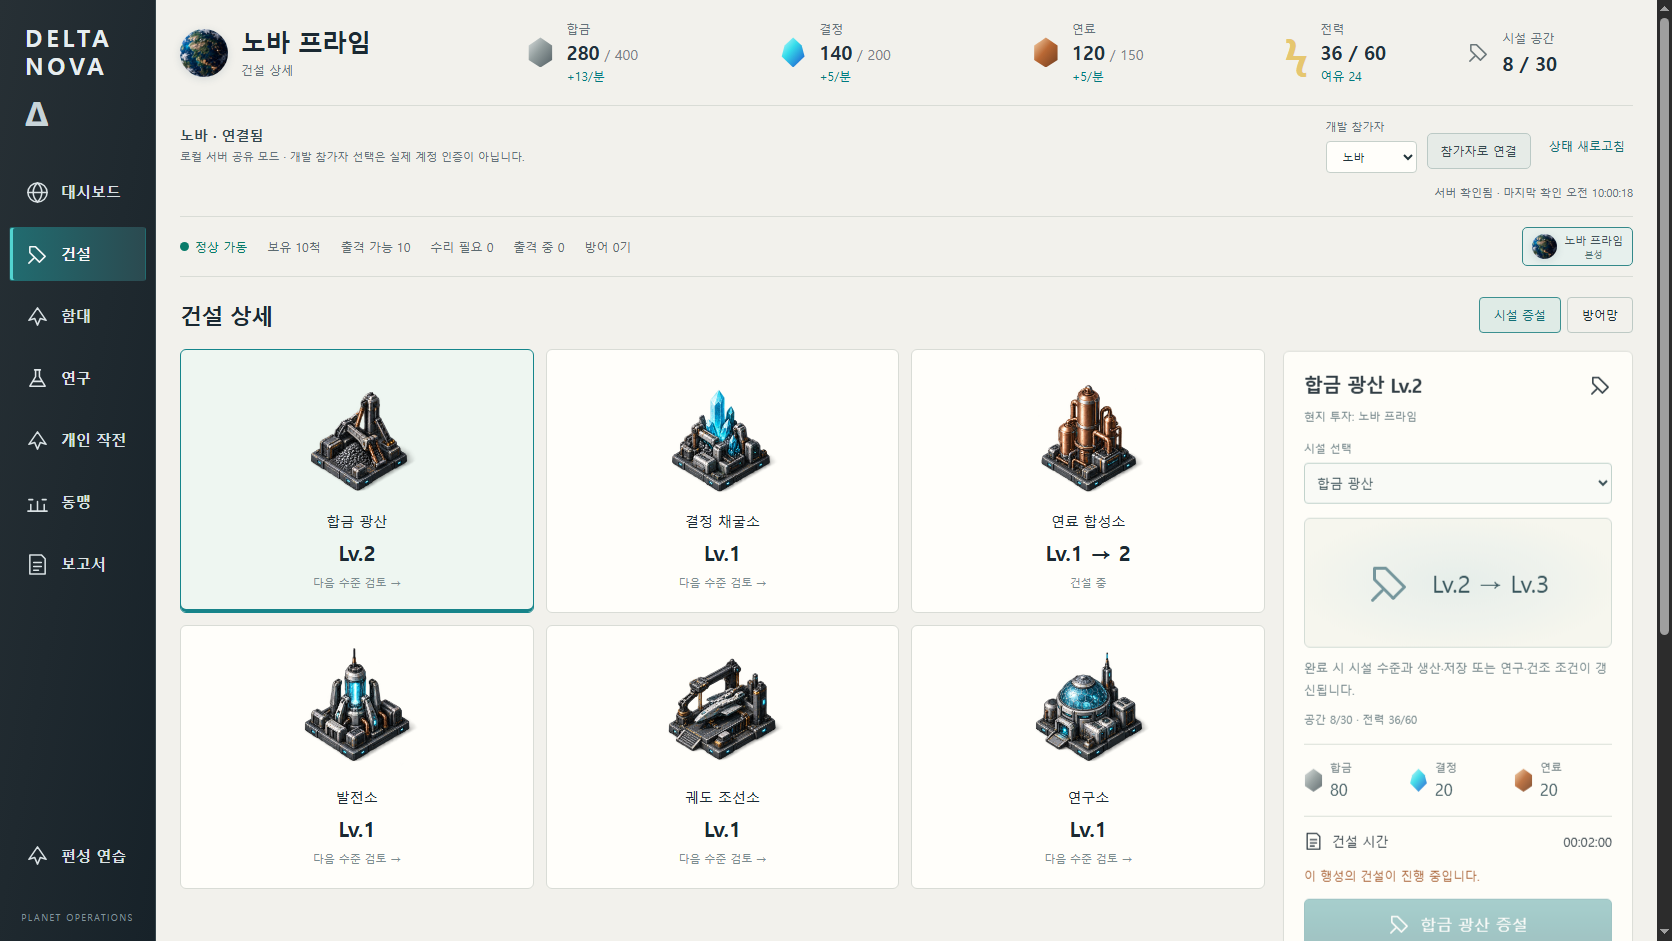
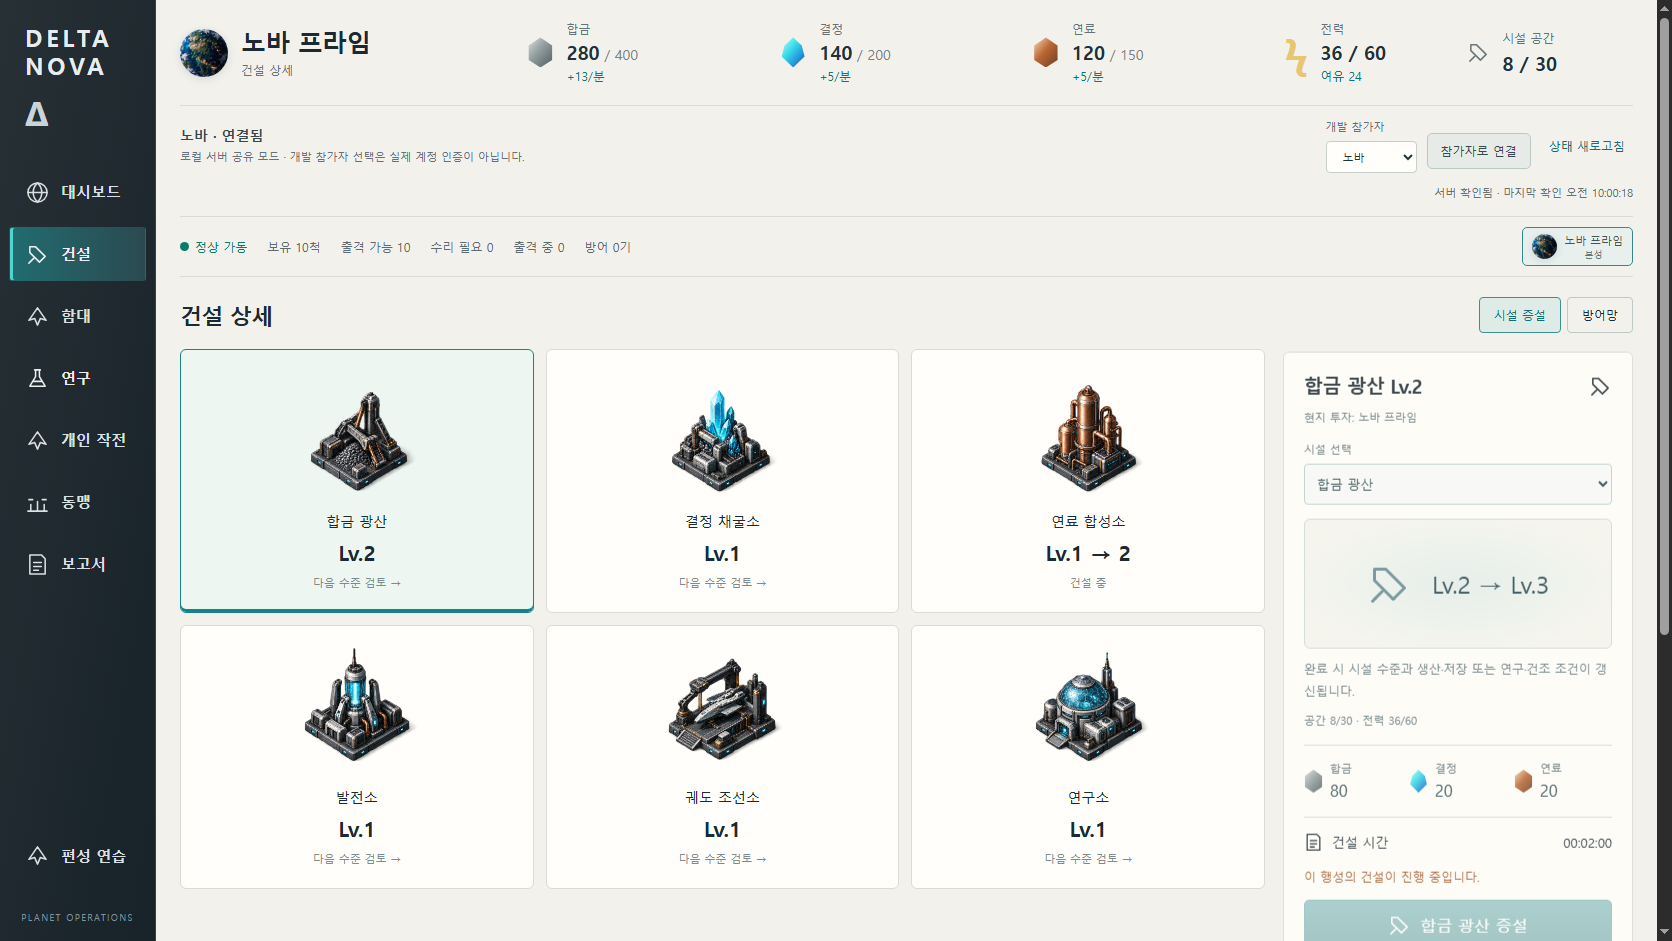
fix: scope completion notices to the active participant and API

diff --git a/tests/completion-notice.test.tsx b/tests/completion-notice.test.tsx
@@ -1,0 +1,40 @@
+// @vitest-environment jsdom
+import { useLayoutEffect } from "react";
+import { afterEach, expect, it } from "vitest";
+import { cleanup, render, screen } from "@testing-library/react";
+import { empireApi } from "../src/empire/api.ts";
+import type { EmpireApi } from "../src/empire/api.ts";
+import type { EmpireState } from "../src/empire/types.ts";
+import { initialEmpire } from "../src/empire/rules.ts";
+import { useCompletionNotice } from "../src/empire/useCompletionNotice.ts";
+afterEach(cleanup);
+it("does not replay an old completion when returning to an already observed API",()=>{
+  const api1={...empireApi},api2={...empireApi},initial=initialEmpire("nova",0),observe=()=>{};
+  const view=render(<Notice api={api2} state={initial} observe={observe}/>);
+  view.rerender(<Notice api={api1} state={initial} observe={observe}/>);
+  const completed={...initial,events:[{id:"completed-on-one",at:40000,planetId:"nova-prime",kind:"completed" as const,title:"함선 건조 1척 완료"}]};
+  view.rerender(<Notice api={api1} state={completed} observe={observe}/>);
+  expect(screen.getByRole("status").textContent).toContain("함선 건조");
+  view.rerender(<Notice api={api2} state={initial} observe={observe}/>);
+  expect(screen.getByRole("status").textContent).toBe("");
+  view.rerender(<Notice api={api1} state={completed} observe={observe}/>);
+  expect(screen.getByRole("status").textContent).toBe("");
+});
+function Notice({api,state,observe}:{api:EmpireApi;state:EmpireState;observe:(text:string)=>void}) {
+  const notice=useCompletionNotice(api,state);
+  useLayoutEffect(()=>{observe(notice?.text||"");});
+  return <p role="status">{notice?.text}</p>;
+}
+it.each(["participant","API"] as const)("never renders the previous completion on the first %s change render",kind=>{
+  const api={...empireApi},initial=initialEmpire("nova",0),observed:string[]=[];
+  const observe=(text:string)=>observed.push(text);
+  const view=render(<Notice api={api} state={initial} observe={observe}/>);
+  const completed={...initial,events:[{id:"new-ship",at:40000,planetId:"nova-prime",kind:"completed" as const,title:"함선 건조 1척 완료"}]};
+  view.rerender(<Notice api={api} state={completed} observe={observe}/>);
+  expect(screen.getByRole("status").textContent).toContain("함선 건조 1척 완료");
+  observed.length=0;
+  const next=initialEmpire(kind==="participant"?"other":"nova",40000);
+  view.rerender(<Notice api={kind==="API"?{...empireApi}:api} state={next} observe={observe}/>);
+  expect(observed.length).toBeGreaterThan(0);
+  expect(observed.every(text=>text==="")).toBe(true);
+});

diff --git a/src/empire/useCompletionNotice.ts b/src/empire/useCompletionNotice.ts
@@ -3,12 +3,13 @@ import type { EmpireApi } from "./api.ts";
 import type { EmpireState } from "./types.ts";
 
 interface CompletionNotice { key: string; text: string }
+interface ObservedNotice { api: EmpireApi; owner: string; notice: CompletionNotice }
 // Retain observations across menu navigation, bounded by the server's event list.
 const histories = new WeakMap<EmpireApi, Map<string, Set<string>>>();
 
 export function useCompletionNotice(api: EmpireApi, state: EmpireState | undefined) {
-  const [notice, setNotice] = useState<CompletionNotice | null>(null);
-  const owner = useRef<string | null>(null);
+  const [notice, setNotice] = useState<ObservedNotice | null>(null);
+  const owner = useRef<{api: EmpireApi; id: string} | null>(null);
 
   useEffect(() => {
     if (!state) {
@@ -20,17 +21,20 @@ export function useCompletionNotice(api: EmpireApi, state: EmpireState | undefin
     if (!actors) { actors = new Map(); histories.set(api, actors); }
     const previous = actors.get(state.homePlanetId);
     actors.set(state.homePlanetId, new Set(state.events.map(event => event.id)));
-    if (owner.current !== state.homePlanetId || !previous) setNotice(null);
-    owner.current = state.homePlanetId;
+    if (owner.current?.api !== api || owner.current.id !== state.homePlanetId || !previous) setNotice(null);
+    owner.current = {api, id: state.homePlanetId};
     if (!previous) return;
 
     const completed = state.events.filter(event => event.kind === "completed" && !previous.has(event.id));
     if (completed.length === 0) return;
     setNotice({
-      key: completed.map(event => event.id).join("|"),
-      text: completed.map(event => `${state.planets.find(planet => planet.id === event.planetId)?.name || "기지"} · ${event.title}`).join(" / "),
+      api, owner: state.homePlanetId,
+      notice: {
+        key: completed.map(event => event.id).join("|"),
+        text: completed.map(event => `${state.planets.find(planet => planet.id === event.planetId)?.name || "기지"} · ${event.title}`).join(" / "),
+      },
     });
   }, [api, state]);
 
-  return notice;
+  return notice?.api === api && notice.owner === state?.homePlanetId ? notice.notice : null;
 }

diff --git a/docs/qa/2026-10-14-dashboard/README.md b/docs/qa/2026-10-14-dashboard/README.md
@@ -14,7 +14,7 @@
 
 | 검증 | 결과 |
 | --- | --- |
-| `npm test` | 18개 파일, 172개 테스트 통과 |
+| `npm test` | 19개 파일, 175개 테스트 통과 |
 | `npm run build` | TypeScript 검사 및 Vite 빌드 통과 |
 | `npm run verify:build` | HTML/JS/CSS와 기존 그림·신규 시설 PNG의 HTTP 응답 검증 통과 |
 | `npm run verify:empire` | 성장·연구·함선 건조·개인 출격/귀환/정비·공동 작전 연동·재시작·중복 명령 검증 통과 |
@@ -25,6 +25,10 @@
 헤드리스 검사 폭: PC 1672, 태블릿 900, 모바일 390px. 각 캡처에서 문서 가로 폭이 뷰포트 안에 들어오며 런타임 예외는 0이다. GUI 창이나 기존 사용자 브라우저 프로필을 사용하지 않았다. 실제 사용자 저장 데이터는 검사에 사용하지 않았다.
 
 신규 동작 테스트는 본문 전환, 완료 효과 및 원본 상태 보존, 현지 손상 함선만 정비, 시설 선택 동기화, 아크 비용/부족분, 지불한 증설 제외, 타 행성 공통 연구, 발전소 회복 비용, 공간 부족 및 방어 연구 효과를 확인한다.
+
+초기 병합 후 `clears the previous participant announcement and baselines the next participant history`에서 참가자 변경 첫 렌더에 이전 알림이 남는 문제를 발견했다. API·본성 식별자가 일치하는 알림만 렌더하며, 연결 대상 변경 시 관찰 상태도 초기화하도록 수정했다. 첫 렌더의 참가자/API 전환과 기존 API로 돌아오는 알림 재생을 확인하는 3개 결정적 테스트를 추가했다.
+
+집중 검증 중 `starts a polite completion region without announcing historical jobs`가 5초 시간 제한을 초과한 1회 실행도 기록한다. 이후 해당 테스트를 포함한 전체 175개 테스트가 통과했다. 시간 제한이나 기대값을 늘려 숨기지 않았다.
 
 ## 실제 화면
 
